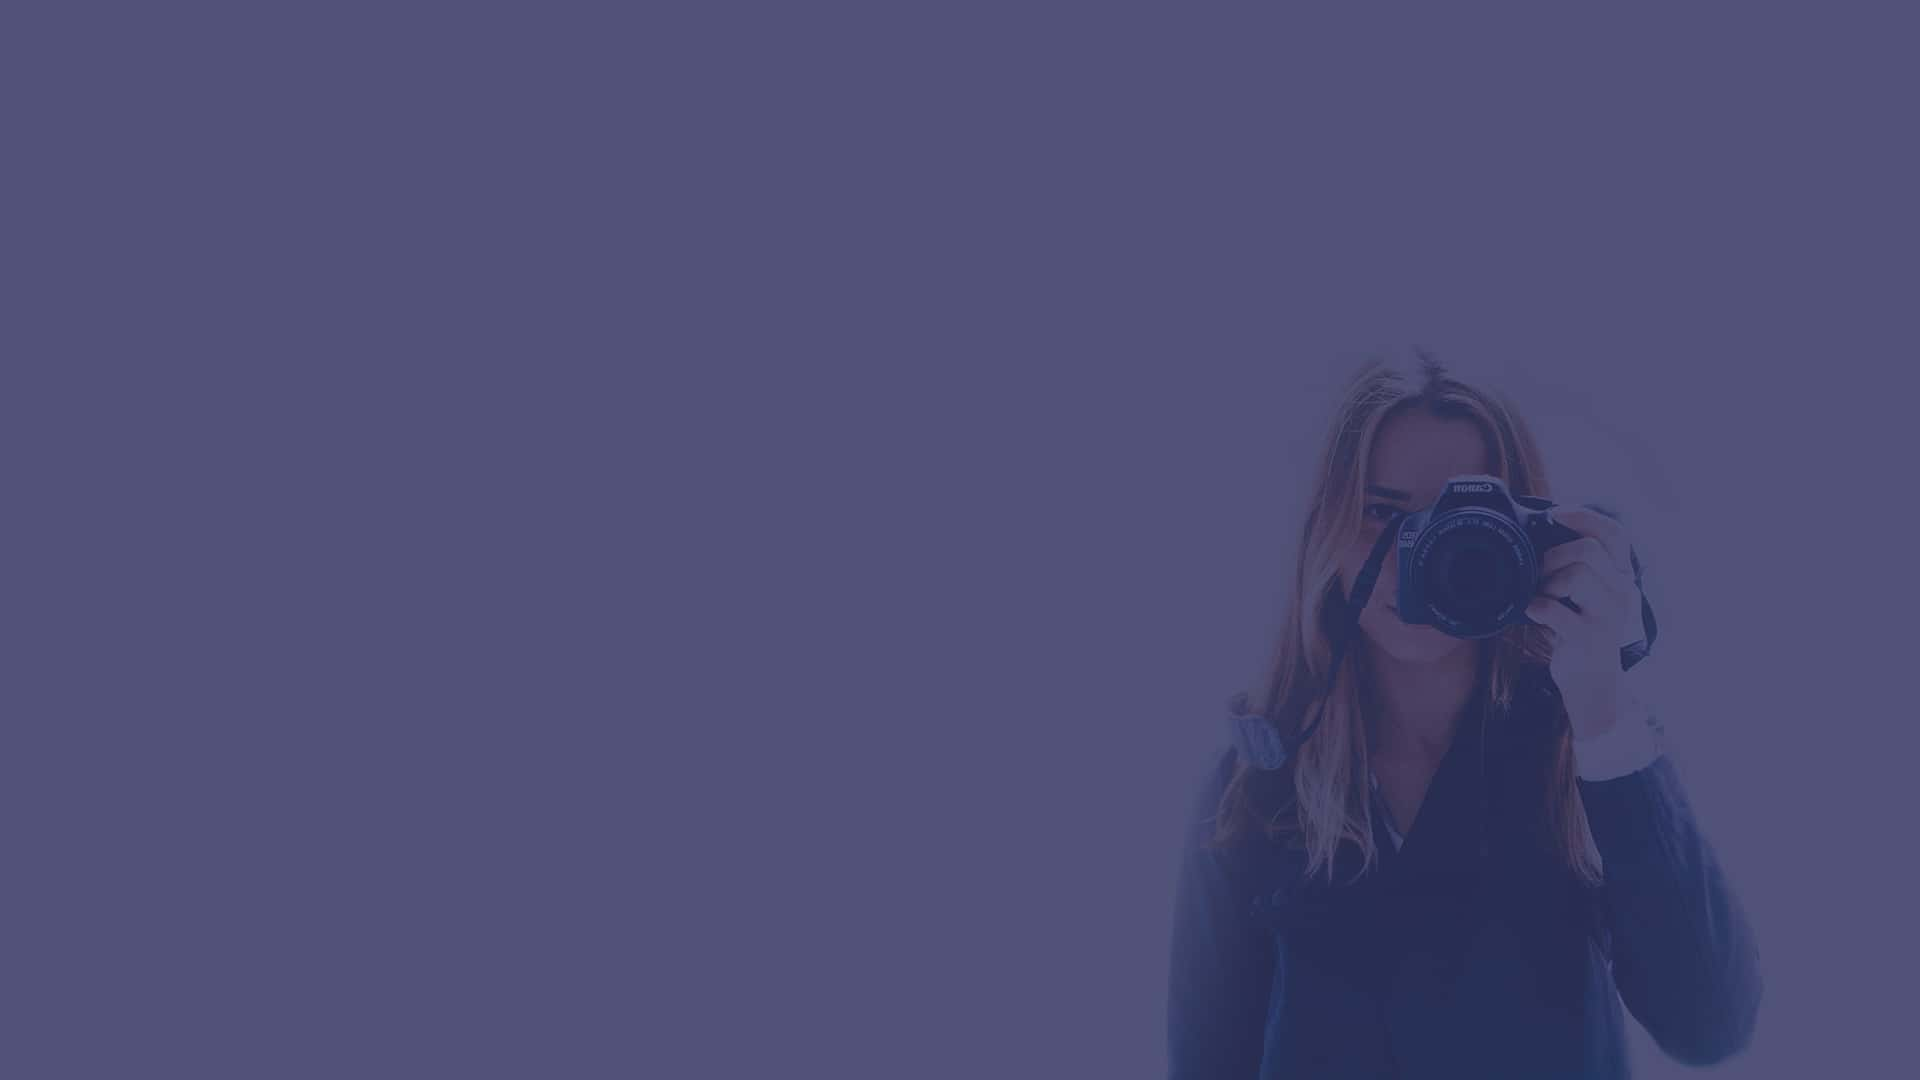
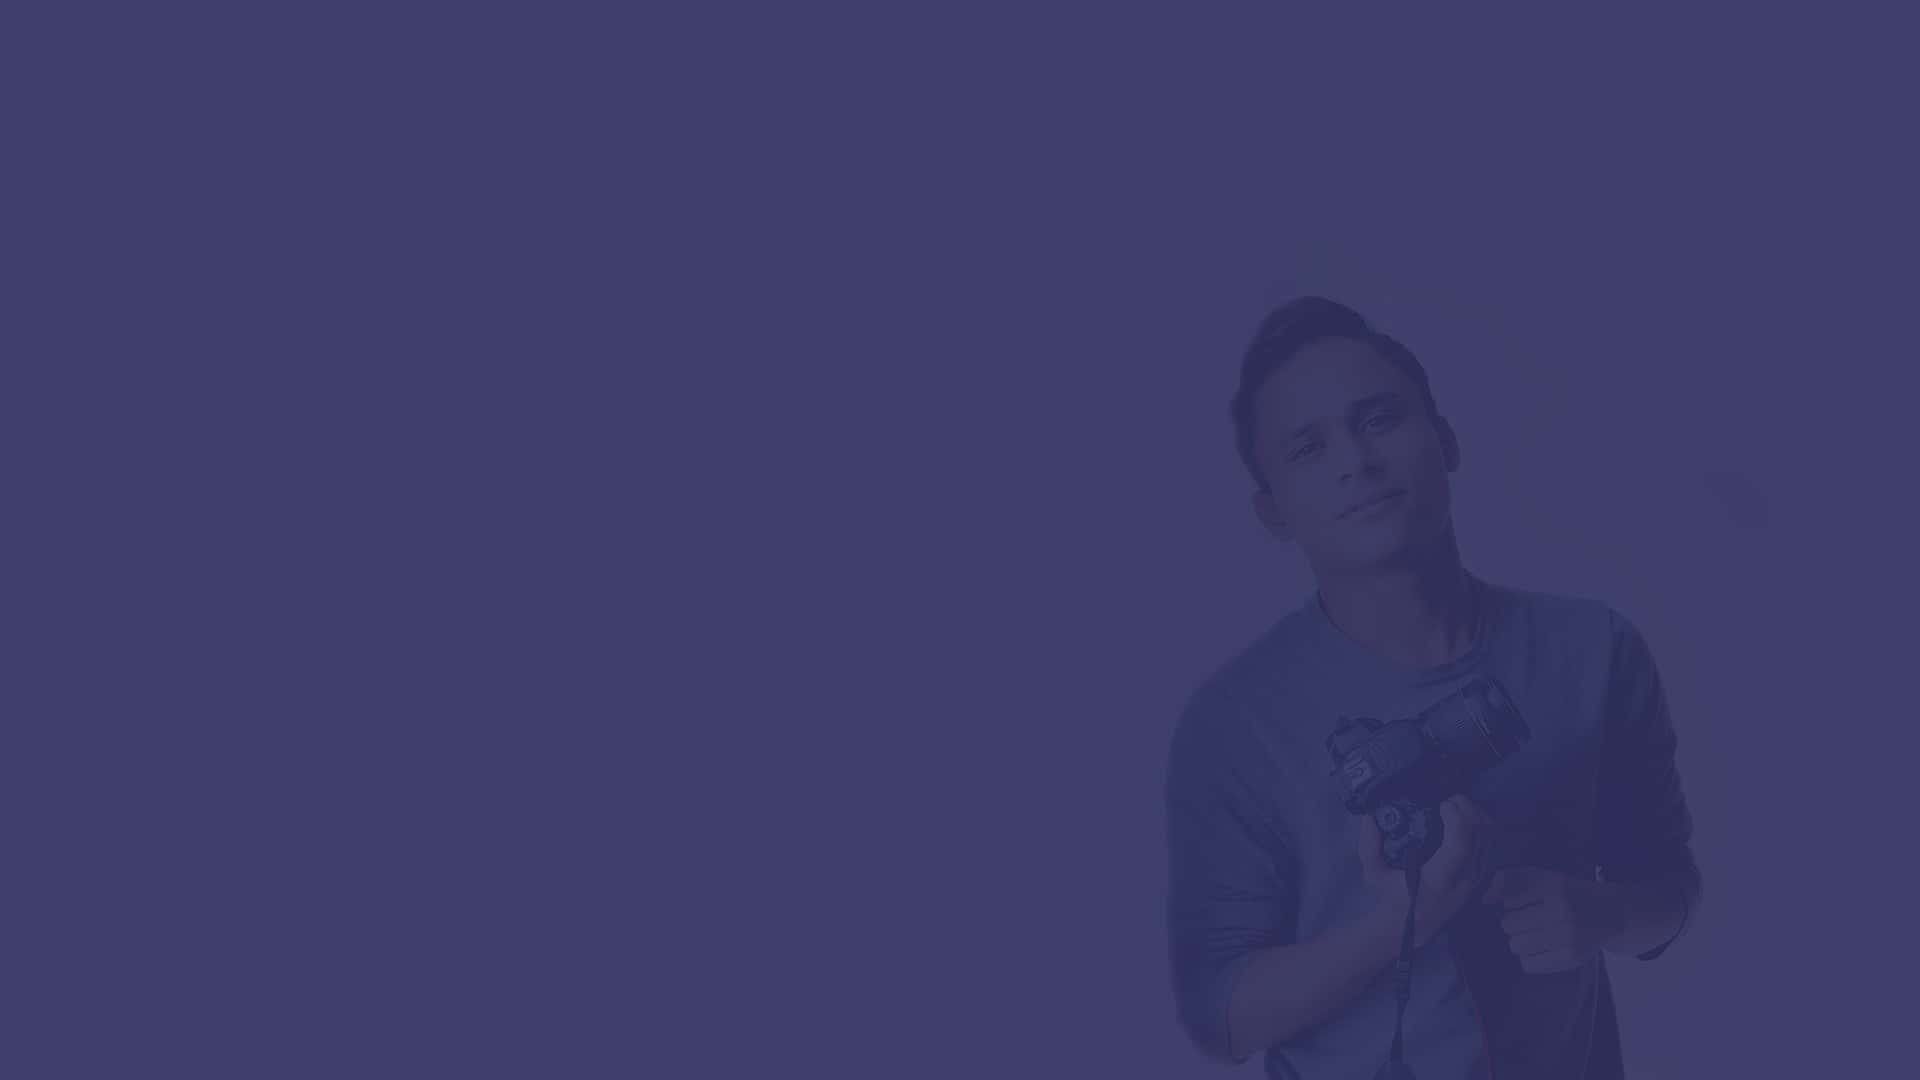
Change photo

diff --git a/css/common.css b/css/common.css
@@ -33,6 +33,34 @@
   font-style: normal;
   font-weight: 600;
   src: url(../fonts/Muli-Bold.ttf) format("truetype"); }
+
+@font-face {
+  font-family: "Icomoon";
+  font-style: normal;
+  font-weight: normal;
+  src: url(../fonts/Icomoon.eot?#iefix) format("embedded-opentype"), url(../fonts/Icomoon.woff) format("woff"), url(../fonts/Icomoon.ttf) format("truetype"); }
+
+[class^="icon-"], [class*=" icon-"] {
+  /* use !important to prevent issues with browser extensions that change fonts */
+  font-family: 'Icomoon', sans-serif !important;
+  speak: none;
+  font-style: normal;
+  font-weight: normal;
+  font-variant: normal;
+  text-transform: none;
+  line-height: 1;
+  /* Better Font Rendering =========== */
+  -webkit-font-smoothing: antialiased;
+  -moz-osx-font-smoothing: grayscale; }
+
+.icon-google:before {
+  content: "\E901"; }
+
+.icon-pinterest:before {
+  content: "\E903"; }
+
+.icon-behance:before {
+  content: "\E900"; }
 /*!
  * Bootstrap v3.3.7 (http://getbootstrap.com)
  * Copyright 2011-2017 Twitter, Inc.
@@ -1362,38 +1390,39 @@ body, html {
 
 .top-line {
   position: fixed;
-  top: 0;
+  top: 15px;
   left: 0;
   width: 100%;
   z-index: 9999;
-  padding: 30px 50px;
+  padding: 20px 50px;
   background-color: transparent;
-  transition: .25s all ease;
+  transition: .25s top linear, .25s background-color linear;
   display: flex;
   justify-content: space-between;
   align-items: center; }
   .top-line.active {
     background-color: #23254b;
-    padding: 20px 50px; }
-    .top-line.active .logo {
-      align-items: center; }
-      .top-line.active .logo__text {
-        font-size: 16px; }
+    top: 0; }
+    .top-line.active .logo__text {
+      font-size: 16px;
+      bottom: 10.5px; }
 
 .logo {
-  display: flex;
-  align-items: flex-end; }
+  position: relative; }
   .logo .camera-icon {
     width: 35px;
-    height: 35px;
-    margin-right: 10px; }
+    height: 35px; }
   .logo__text {
+    position: absolute;
+    bottom: 0;
+    left: 45px;
     text-transform: uppercase;
     font-weight: 300;
     color: #fff;
     font-size: 20px;
     line-height: 1;
-    margin: 0 0 -1px; }
+    margin: 0 0 -1px;
+    transition: .25s bottom linear, .25s font-size linear; }
     .logo__text span {
       font-weight: 600; }
 
@@ -1493,7 +1522,43 @@ body, html {
   height: 30px;
   bottom: 15px;
   left: calc(50% - 15px);
-  transition: .25s all ease; }
+  transition: .25s all linear; }
+
+.s-home-social-list {
+  position: absolute;
+  bottom: 0;
+  right: 0;
+  padding: 15px 30px 10px;
+  margin: 0;
+  border-top: 1px solid #fff;
+  border-left: 1px solid #fff; }
+  .s-home-social-list:before, .s-home-social-list:after {
+    content: '';
+    position: absolute;
+    background-color: #fff; }
+  .s-home-social-list:before {
+    top: -40px;
+    left: -1px;
+    width: 1px;
+    height: 40px; }
+  .s-home-social-list:after {
+    top: -1px;
+    left: -40px;
+    height: 1px;
+    width: 40px; }
+  .s-home-social-list__item {
+    display: inline-block;
+    list-style-type: none;
+    margin-right: 25px; }
+    .s-home-social-list__item:last-of-type {
+      margin-right: 0; }
+  .s-home-social-list__link {
+    display: inline-block;
+    color: #fff;
+    font-size: 16px;
+    transition: .25s color linear; }
+    .s-home-social-list__link:hover {
+      color: #F2C200; }
 
 .btn {
   position: relative;
@@ -1506,12 +1571,10 @@ body, html {
   letter-spacing: 1px; }
   .btn--accent-1 {
     border: 2px solid #2B2D5C;
-    background-color: #2B2D5C;
-    color: #fff; }
+    color: #2B2D5C; }
   .btn--accent-2 {
     border: 2px solid #F2C200;
-    background-color: #F2C200;
-    color: #2B2D5C; }
+    color: #F2C200; }
   .btn--white {
     border: 2px solid #fff;
     color: #fff; }

diff --git a/index.html b/index.html
@@ -23,13 +23,24 @@
         </header>
         <section class="section s-home">
             <div class="home-preview">
-                <h2 class="home-preview__title">Hello, I'm<br><span>Jane</span> Jonson</h2>
+                <h2 class="home-preview__title">Hello, I'm<br><span>Jacob</span> Daniels</h2>
                 <p class="home-preview__description">It is a long established fact that a reader will be distracted by the readable content of a page when looking at its layout.</p>
             </div>
             <span class="square square--1"></span>
             <span class="square square--2"></span>
             <span class="square square--3"></span>
             <a class="arrow-link" href="#"><img class="img-responsive" src="images/arrow.svg" alt="Arrow"></a>
+            <ul class="s-home-social-list hidden-xs">
+                <li class="s-home-social-list__item">
+                    <a class="s-home-social-list__link" href="#"><i class="icon-google"></i></a>
+                </li>
+                <li class="s-home-social-list__item">
+                    <a class="s-home-social-list__link" href="#"><i class="icon-behance"></i></a>
+                </li>
+                <li class="s-home-social-list__item">
+                    <a class="s-home-social-list__link" href="#"><i class="icon-pinterest"></i></a>
+                </li>
+            </ul>
         </section>
         <section class="section s-about-me s-columns s-columns--reverse">
             <div class="s-columns__item s-columns__item--image s-columns__item--accent-1 my-photo"></div>
@@ -37,8 +48,9 @@
                 <div class="s-content s-about-me-content">
                     <h4 class="s-about-me-content__title">About MySelf</h4>
                     <p class="s-about-me-content__description">
-                        Lorem ipsum dolor sit amet, consectetur adipisicing elit. Animi corporis cum delectus dolores et eum ipsum minus, molestiae nostrum numquam odio possimus quidem reiciendis sed suscipit. Adipisci atque natus neque quibusdam reiciendis soluta voluptatem? Amet consequatur deleniti eaque, error fugit laboriosam magni mollitia quidem quis quisquam recusandae reiciendis, sunt voluptatibus.
+                        Lorem ipsum dolor sit amet, consectetur adipisicing elit. Animi corporis cum delectus dolores et eum ipsum minus, molestiae nostrum numquam odio possimus quidem reiciendis sed suscipit. Adipisci atque natus neque quibusdam reiciendis soluta voluptatem? Amet consequatur deleniti eaque, error fugit laboriosam magni mollitia quidem quis quisquam recusandae reiciendis, sunt voluptatibus [...].
                     </p>
+                    <a href="#" class="btn btn--accent-1">Read more</a>
                     <h4 class="s-about-me-content__sub-title">What I do?</h4>
                     <a href="#" class="btn btn--accent-1">View my behance profile</a>
                 </div>

diff --git a/portfolio.html b/portfolio.html
@@ -27,6 +27,17 @@
             <span class="square square--2"></span>
             <span class="square square--3"></span>
             <a class="arrow-link" href="#"><img class="img-responsive" src="images/arrow.svg" alt="Arrow"></a>
+            <ul class="s-home-social-list hidden-xs">
+                <li class="s-home-social-list__item">
+                    <a class="s-home-social-list__link" href="#"><i class="icon-google"></i></a>
+                </li>
+                <li class="s-home-social-list__item">
+                    <a class="s-home-social-list__link" href="#"><i class="icon-behance"></i></a>
+                </li>
+                <li class="s-home-social-list__item">
+                    <a class="s-home-social-list__link" href="#"><i class="icon-pinterest"></i></a>
+                </li>
+            </ul>
         </section>
         <section class="section s-portfolio s-columns s-columns--reverse">
             <div class="s-columns__item s-columns__item--1 s-columns__item--accent-1">

diff --git a/js/index.js b/js/index.js
@@ -1,1 +1,1 @@
-webpackJsonp([1],{7:function(i,n,o){"use strict";(function(i){o(1),o(8),o(2),i(function(){i("#portfolio-grid").justifiedGallery({rowHeight:320,margins:20,lastRow:"hide"})})}).call(n,o(0))},8:function(i,n){}},[7]);
+webpackJsonp([1],{7:function(i,n,o){"use strict";(function(i){o(1),o(8),o(2),i(function(){i("#portfolio-grid").justifiedGallery({rowHeight:320,margins:20})})}).call(n,o(0))},8:function(i,n){}},[7]);

diff --git a/css/index.css b/css/index.css
@@ -30,9 +30,12 @@ body, html {
   color: #2B2D5C;
   margin: 0; }
 
+.s-about-me-content__description {
+  margin-bottom: 40px; }
+
 .s-about-me-content__sub-title {
   font-size: 28px;
-  margin: 30px 0; }
+  margin: 70px 0 0; }
 
 .my-photo {
   background: #2B2D5C url(../images/myPhoto.jpg) center center/cover no-repeat;
